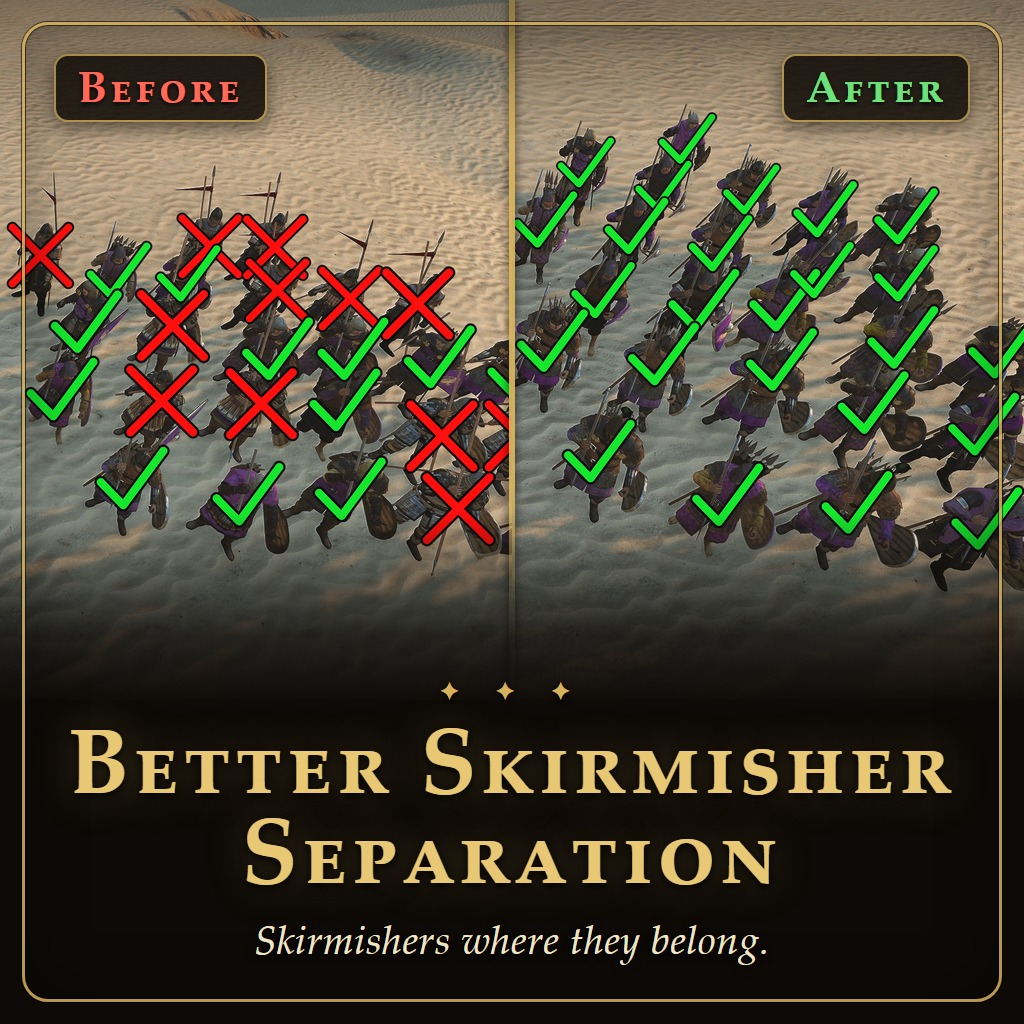
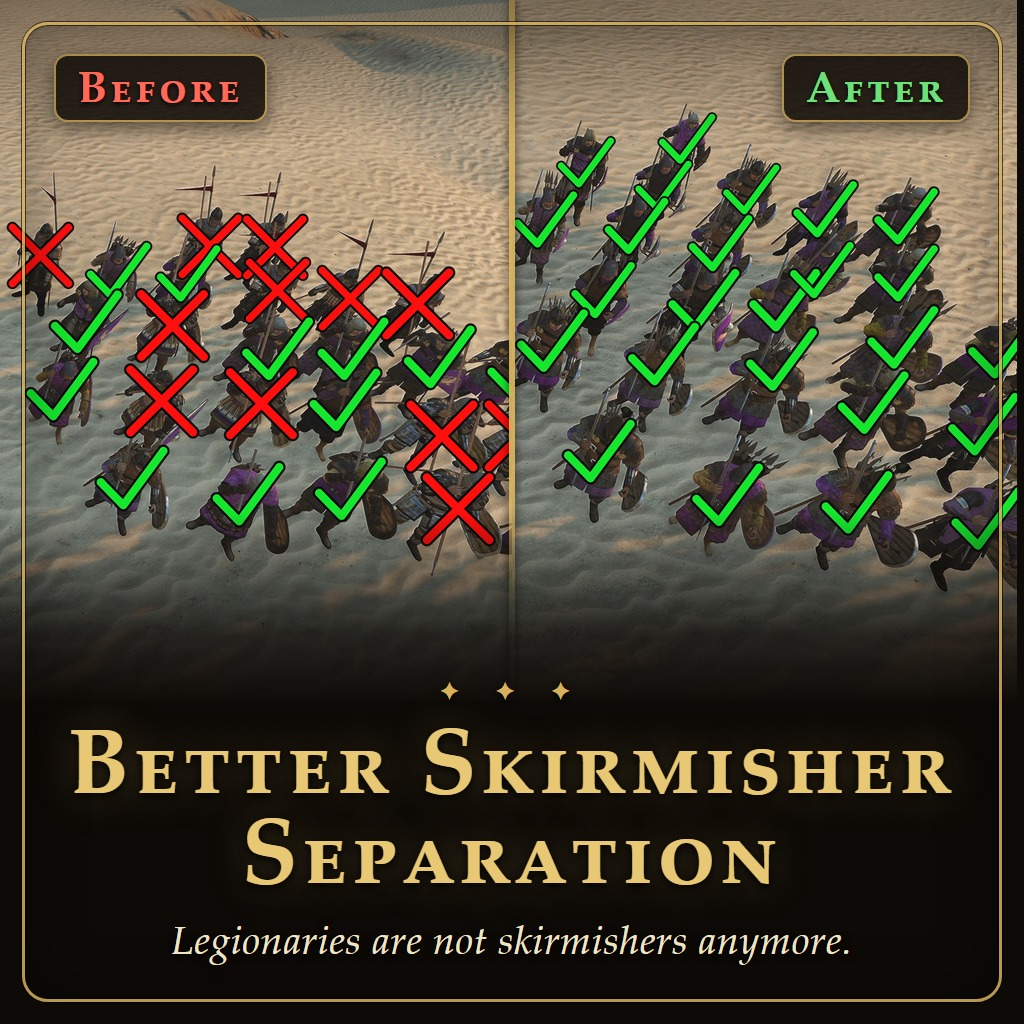
Thumbnails: paint out the slider count on the v2 card, new tagline
v2 card: the '26 / <total>' label above the slider is cloned over with the card's
own background in make_thumbnail.py (erase_count), so the army total never shows.
Tagline is now 'Legionaries are not skirmishers anymore.' on v1, and added under
the title on v2 (panels 430 -> 390 px to make room).

Changed region(s): [[0.1562, 0.9062, 0.8125, 0.9375], [0.9688, 0.0, 1.0, 0.625]]

diff --git a/tools/preview_thumbnail_v2.html b/tools/preview_thumbnail_v2.html
@@ -2,7 +2,7 @@
 <!-- Steam Workshop / mod thumbnail v2, 1024x1024: "the setting -> BEFORE -> AFTER" story.
      Same family as preview_thumbnail.html (gold frame, Palatino small caps, dark fade). Top: the Order of Battle
      card of formation 2 (Throwing Weapons filter ticked) with the filter icon ringed and magnified; below it the
-     same BEFORE | AFTER panels as v1, shorter; the title last. Rendered by: python tools\make_thumbnail.py --variant v2 -->
+     same BEFORE | AFTER panels as v1, shorter; the title and tagline last. Rendered by: python tools\make_thumbnail.py --variant v2 -->
 <html>
 <head>
 <meta charset="utf-8">
@@ -44,19 +44,19 @@
   .zoomlabel b { color: #6fe07c; font-weight: 700; }
   /* ---- BEFORE | AFTER ---- */
   .panel {
-    position: absolute; top: 478px; width: 512px; height: 430px;
+    position: absolute; top: 478px; width: 512px; height: 390px;
     background-size: cover; background-position: center;
     filter: brightness(1.02) contrast(1.06) saturate(1.1);
   }
   .panel.before { left: 0; background-image: url('PANEL_BEFORE'); }
   .panel.after  { left: 512px; background-image: url('PANEL_AFTER'); }
   .split {
-    position: absolute; top: 478px; left: 509px; width: 6px; height: 430px;
+    position: absolute; top: 478px; left: 509px; width: 6px; height: 390px;
     background: linear-gradient(to bottom, rgba(214,178,94,0.95) 0%, rgba(214,178,94,0.95) 75%, rgba(214,178,94,0) 100%);
     box-shadow: 0 0 10px rgba(0,0,0,0.7);
   }
   .shade {
-    position: absolute; left: 0; right: 0; top: 478px; height: 430px;
+    position: absolute; left: 0; right: 0; top: 478px; height: 390px;
     background: linear-gradient(to bottom, rgba(13,10,7,0.9) 0%, rgba(0,0,0,0) 9%, rgba(0,0,0,0) 72%, rgba(13,10,7,0.85) 90%, rgba(13,10,7,1) 100%);
   }
   .vignette {
@@ -79,11 +79,15 @@
   }
   .tag.before { right: 536px; color: #ff6a5a; }
   .tag.after  { right: 46px; color: #6fe07c; }
-  .titleblock { position: absolute; left: 0; right: 0; bottom: 50px; text-align: center; }
+  .titleblock { position: absolute; left: 0; right: 0; bottom: 44px; text-align: center; }
   h1 {
     color: #e8c874; font-size: 60px; font-weight: 600; letter-spacing: 3px;
     font-variant: small-caps; line-height: 1; white-space: nowrap;
     text-shadow: 0 3px 10px rgba(0,0,0,0.95), 0 0 40px rgba(232, 200, 116, 0.28);
+  }
+  .tagline {
+    margin-top: 10px; color: #f0e4c8; font-size: 36px; font-style: italic; letter-spacing: 0.5px; line-height: 1;
+    text-shadow: 0 2px 8px rgba(0,0,0,0.95);
   }
 </style>
 </head>
@@ -102,7 +106,7 @@
     <div class="tag before">Before</div>
     <div class="tag after">After</div>
     <div class="frame"></div>
-    <div class="titleblock"><h1>Better Skirmisher Separation</h1></div>
+    <div class="titleblock"><h1>Better Skirmisher Separation</h1><div class="tagline">Legionaries are not skirmishers anymore.</div></div>
   </div>
 </body>
 </html>

diff --git a/tools/preview_thumbnail.html b/tools/preview_thumbnail.html
@@ -92,7 +92,7 @@
     <div class="titleblock">
       <div class="ornament">✦ ✦ ✦</div>
       <h1>Better Skirmisher<br>Separation</h1>
-      <div class="tagline">Skirmishers where they belong.</div>
+      <div class="tagline">Legionaries are not skirmishers anymore.</div>
     </div>
   </div>
 </body>

diff --git a/tools/make_thumbnail.py b/tools/make_thumbnail.py
@@ -8,8 +8,9 @@ Style matches TrainingBattlesMod's preview_thumbnail (gold frame, Palatino small
 1. Cuts the Throwing Weapons block out of the unmarked screenshots "A1 Before" / "A2 After" and redraws
    their marks (screenshots\marks\*.marks.json) 2-2.3x bigger, so the red X's and green ticks still
    read on a 256 px Workshop tile. Panels go to screenshots\thumbnail build\ (gitignored, like all screenshots).
-   v2 also cuts the Order of Battle card of formation 2 (26 / 69, Throwing Weapons filter ticked) out of
-   "B1 Before" (identical in B2) plus a close-up of its filter icon, which the HTML rings and magnifies.
+   v2 also cuts the Order of Battle card of formation 2 (Throwing Weapons filter ticked) out of "B1 Before"
+   (identical in B2) plus a close-up of its filter icon, which the HTML rings and magnifies. The "26 / <total>"
+   count above the slider is painted out with the card's own background (the army total is not wanted in public images).
 2. Renders tools\preview_thumbnail.html (v2: preview_thumbnail_v2.html) with headless Edge (or Chrome) to a 1024x1024 PNG.
 3. Saves docs\thumbnail.jpg, stepping JPEG quality down until it fits under 1 MB.
 
@@ -48,10 +49,10 @@ VARIANTS = {
         },
     },
     "v2": {
-        "html": "preview_thumbnail_v2.html", "out": "thumbnail_v2.jpg", "panel": (512, 430), "mark_scale": 2.3,
+        "html": "preview_thumbnail_v2.html", "out": "thumbnail_v2.jpg", "panel": (512, 390), "mark_scale": 2.3,
         "panels": {
-            "before": ("A1 Before.jpg", "A1 Before.marks.json", (1960, 350, 3110, 1316)),
-            "after": ("A2 After.jpg", "A2 After.marks.json", (1975, 320, 3125, 1286)),
+            "before": ("A1 Before.jpg", "A1 Before.marks.json", (1960, 395, 3110, 1271)),
+            "after": ("A2 After.jpg", "A2 After.marks.json", (1975, 365, 3125, 1241)),
         },
     },
 }
@@ -64,6 +65,10 @@ ICON_BOX = (376, 524, 418, 566)        # square around the thrower icon + its gr
 ICON_CENTER = (397, 545)
 CARD_BODY = (20, 426, 420, 694)        # the card body inside its gold border (tabs sit above it)
 MAGENTA = (255, 0, 255)
+# the "26 / <total>" label above the slider and its drop shadow, cloned over from the empty strip to its right
+# (rows stop above the slider handle, which pokes up at x 167..181, and above the bar, which starts at y 497)
+CARD_ERASE = [(164, 464, 182, 490), (182, 464, 250, 497)]
+ERASE_SRC_X = 254
 CARD_POS, CARD_SIZE = (58, 52), (548, 404)
 RING = 92
 ZOOM_CENTER, ZOOM_R = (821, 211), 145
@@ -109,9 +114,17 @@ def cut_card(img: Image.Image) -> Image.Image:
     return out
 
 
+def erase_count(shot: Image.Image) -> Image.Image:
+    """Paints out the slider's "26 / <total>" label by cloning the plain card background from the same rows."""
+    out = shot.copy()
+    for x0, y0, x1, y1 in CARD_ERASE:
+        out.paste(shot.crop((ERASE_SRC_X, y0, ERASE_SRC_X + x1 - x0, y1)), (x0, y0))
+    return out
+
+
 def card_fill(html: str) -> str:
     """v2: writes the card + icon crops and fills the ring / leader-line positions into the template."""
-    shot = Image.open(SHOTS / "originals" / CARD_SHOT).convert("RGB")
+    shot = erase_count(Image.open(SHOTS / "originals" / CARD_SHOT).convert("RGB"))
     card = WORK / "thumb_card.png"
     cut_card(shot.crop(CARD_BOX)).resize(CARD_SIZE, Image.LANCZOS).save(card)
     icon = WORK / "thumb_icon.png"
